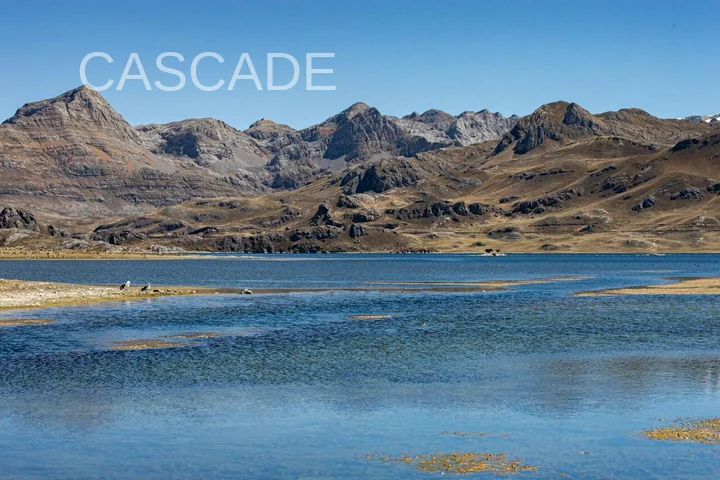
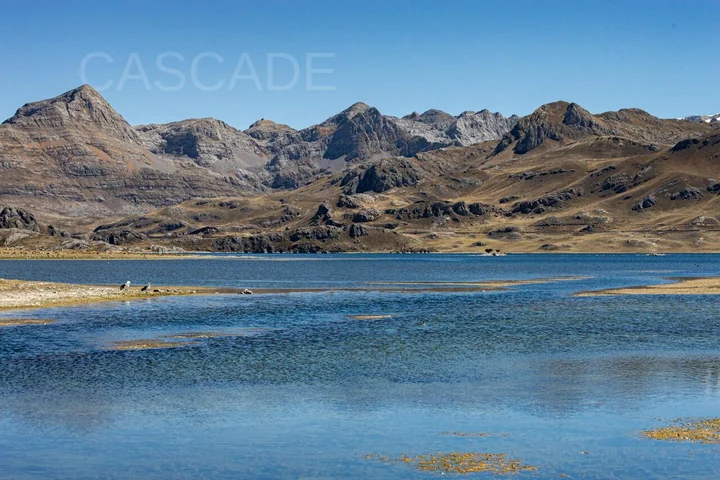
fix: align crop output format and examples

Changed region(s): [[0.0917, 0.0938, 0.4583, 0.1875], [0.1222, 0.0938, 0.1528, 0.125]]

diff --git a/apps/web/src/ai/dsl/__tests__/redButtonExamples.test.ts b/apps/web/src/ai/dsl/__tests__/redButtonExamples.test.ts
@@ -72,31 +72,27 @@ describe('red button example DSL fixtures', () => {
     const ast = parseAndValidate([
       'graph {',
       `  source = LoadImage(path: image("${imageB}"))`,
-      '  square_crop = Crop(width: 1080, height: 1080)',
-      '  square = Resize(width: 1080, height: 1080)',
-      '  portrait_crop = Crop(x: 240, width: 960, height: 1200)',
-      '  portrait = Resize(width: 1080, height: 1350)',
-      '  landscape_crop = Crop(width: 1600, height: 900)',
-      '  landscape = Resize(width: 1200, height: 675)',
+      '  square = Resize(mode: "cover", width: 1080, allow_upscale: true)',
+      '  portrait = Resize(mode: "cover", width: 1080, height: 1350, allow_upscale: true)',
+      '  landscape = Resize(mode: "cover", width: 1200, height: 675, allow_upscale: true)',
       '  view = Viewer()',
       '  square_export = ExportImage(output_path: "square.png")',
       '  portrait_export = ExportImage(output_path: "portrait.png")',
       '  landscape_export = ExportImage(output_path: "landscape.png")',
       '',
-      '  source.image -> square_crop.image',
-      '  square_crop.image -> square.image',
+      '  source.image -> square.image',
       '  square.image -> view.value',
       '  square.image -> square_export.image',
-      '  source.image -> portrait_crop.image',
-      '  portrait_crop.image -> portrait.image',
+      '  source.image -> portrait.image',
       '  portrait.image -> portrait_export.image',
-      '  source.image -> landscape_crop.image',
-      '  landscape_crop.image -> landscape.image',
+      '  source.image -> landscape.image',
       '  landscape.image -> landscape_export.image',
       '}',
     ].join('\n'));
 
     const exportNodes = Array.from(ast.nodes.values()).filter(node => node.nodeTypeId === 'export_image');
     expect(exportNodes).toHaveLength(3);
+    expect(Array.from(ast.nodes.values()).filter(node => node.nodeTypeId === 'crop')).toHaveLength(0);
+    expect(ast.nodes.get('square')?.params.get('mode')).toMatchObject({ type: 'dropdown', value: 'cover' });
   });
 });

diff --git a/apps/web/src/examples/catalog.ts b/apps/web/src/examples/catalog.ts
@@ -50,11 +50,11 @@ export const CASCADE_EXAMPLES: CascadeExample[] = [
     id: 'social-media-variants',
     title: 'Social Media Variants',
     section: 'Getting Started',
-    description: 'Branch one source image into square, portrait, and landscape export variants.',
-    tags: ['Variants', 'Crop', 'Multi Export'],
+    description: 'Branch one source image into cover-resized square, portrait, and landscape export variants.',
+    tags: ['Variants', 'Cover Resize', 'Multi Export'],
     projectUrl: publicAsset('examples/social-media-variants.casc'),
     thumbnailUrl: publicAsset('examples/thumbs/social-media-variants.webp'),
-    requiredNodeTypes: ['load_image', 'crop', 'resize', 'viewer', 'export_image'],
+    requiredNodeTypes: ['load_image', 'resize', 'viewer', 'export_image'],
   },
   {
     id: 'pixel-art-palette-grade',

diff --git a/crates/cascade-nodes-std/src/lib.rs b/crates/cascade-nodes-std/src/lib.rs
@@ -690,7 +690,7 @@ mod tests {
         assert_eq!(output.data_window, expected_dw);
         assert_eq!(output.width, 10);
         assert_eq!(output.height, 10);
-        assert_eq!(output.format, input.format);
+        assert_eq!(output.format, Format::from_dimensions(10, 10));
         // Pixel at output (0,0) maps to source global (102,101) which is inside the input
         let px = output.get_rgba(0, 0);
         assert_color_approx(px, [0.0, 1.0, 0.0, 1.0], "pixel inside crop");
@@ -718,11 +718,36 @@ mod tests {
         // Output is always exactly width×height, even with no overlap
         assert_eq!(output.width, 10);
         assert_eq!(output.height, 10);
+        assert_eq!(output.format, Format::from_dimensions(10, 10));
         let px = output.get_rgba(0, 0);
         assert_color_approx(
             px,
             [0.0, 0.0, 0.0, 0.0],
             "non-overlapping crop is transparent",
+        );
+    }
+
+    #[test]
+    fn test_crop_resets_display_format_to_crop_dimensions() {
+        let input = make_test_image(512, 512, [0.0, 0.0, 1.0, 1.0]);
+
+        let node = Crop::new();
+        let mut params = HashMap::new();
+        params.insert("x".to_string(), ParamValue::Int(0));
+        params.insert("y".to_string(), ParamValue::Int(0));
+        params.insert("width".to_string(), ParamValue::Int(512));
+        params.insert("height".to_string(), ParamValue::Int(10));
+
+        let output = eval_image_node(&node, input, params);
+
+        assert_eq!(output.width, 512);
+        assert_eq!(output.height, 10);
+        assert_eq!(output.data_window, RectI::from_dimensions(512, 10));
+        assert_eq!(output.format, Format::from_dimensions(512, 10));
+        assert_color_approx(
+            output.get_rgba(0, 9),
+            [0.0, 0.0, 1.0, 1.0],
+            "crop output keeps the requested pixels opaque through the full crop height",
         );
     }
 

diff --git a/crates/cascade-nodes-std/src/transform.rs b/crates/cascade-nodes-std/src/transform.rs
@@ -422,7 +422,7 @@ impl Node for Crop {
                     });
 
                 let output = Image::new_with_domain(
-                    image.format.clone(),
+                    Format::from_dimensions(width, height),
                     out_dw,
                     data,
                     image.color_space.clone(),

diff --git a/implementation-plans/red-button-examples-implementation.md b/implementation-plans/red-button-examples-implementation.md
@@ -7,6 +7,7 @@ Ship three bundled, DSL-backed examples that validate common image editing workf
 ## Approach
 
 - Extend the existing `resize` node with an aspect-preserving `Fit Within` mode while preserving exact resize defaults.
+- Use resize `Cover` mode for fixed-aspect social variants instead of manual crop rectangles that can pad out-of-bounds pixels.
 - Keep watermark as a root-graph example composed from existing nodes, not a built-in group or primitive.
 - Add a root export-all workflow for multiple `Export Image` nodes.
 - Package the new examples as bundled `.casc` files with valid DSL shadow metadata and packed assets.
@@ -14,6 +15,7 @@ Ship three bundled, DSL-backed examples that validate common image editing workf
 ## Affected Areas
 
 - `crates/cascade-nodes-std` resize behavior and tests.
+- `crates/cascade-nodes-std` crop display-format behavior and tests.
 - `apps/web/src/ai/dsl` tests and example compatibility coverage.
 - `apps/web/src/store/graphStore` export-all behavior.
 - `apps/web/public/examples` bundled projects, thumbnails, and catalog entries.
@@ -22,9 +24,12 @@ Ship three bundled, DSL-backed examples that validate common image editing workf
 
 - [x] Add native resize fit mode and Rust tests.
 - [x] Add native resize cover mode and tests.
+- [x] Fix default crop output format to match requested crop dimensions.
 - [x] Add export-all store/menu behavior and frontend tests.
 - [x] Add DSL tests for resize and example graph shapes.
 - [x] Generate bundled example `.casc` files with DSL shadows and assets.
 - [x] Simplify watermark example to a rasterized text overlay.
+- [x] Lower watermark example opacity to 15%.
+- [x] Switch social variants to cover-resize branches.
 - [x] Register examples in the catalog and credits.
 - [x] Run targeted frontend and Rust validation.